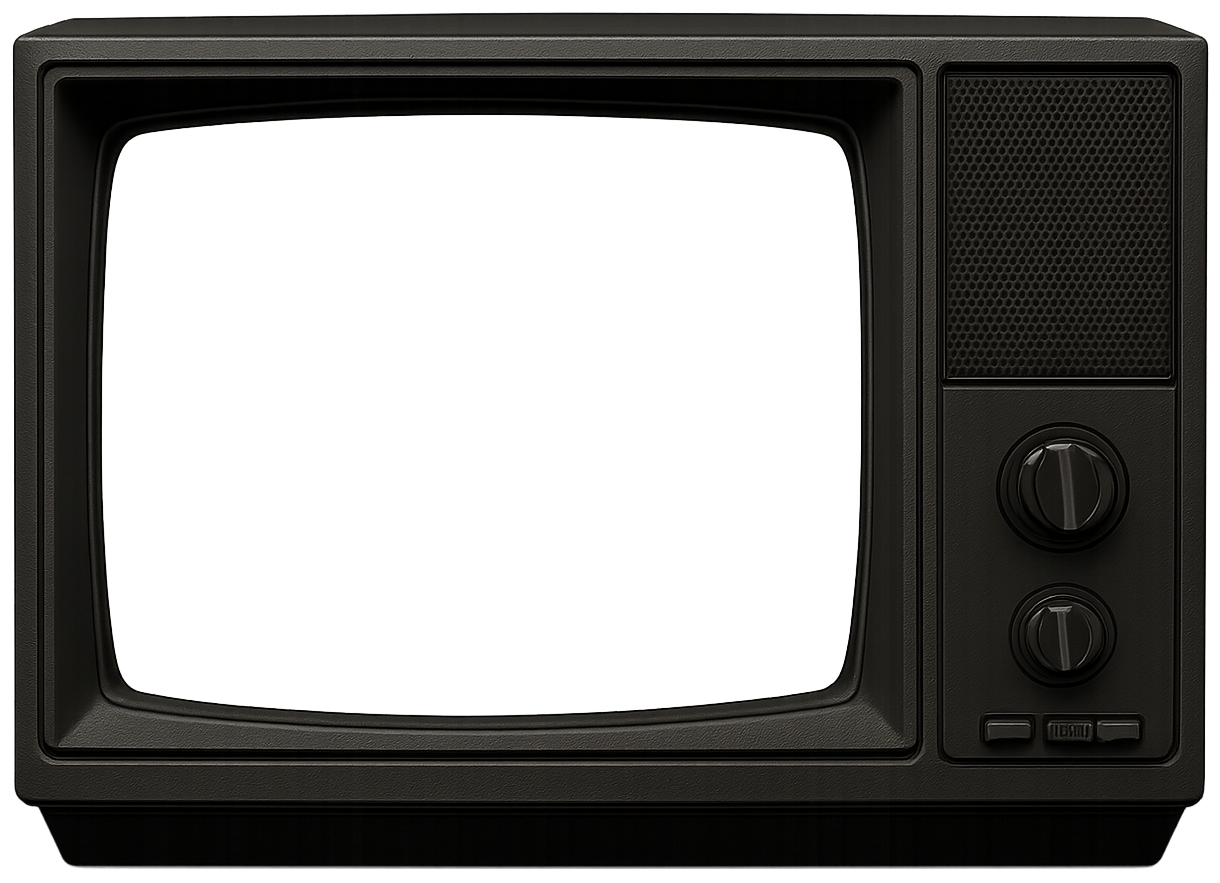
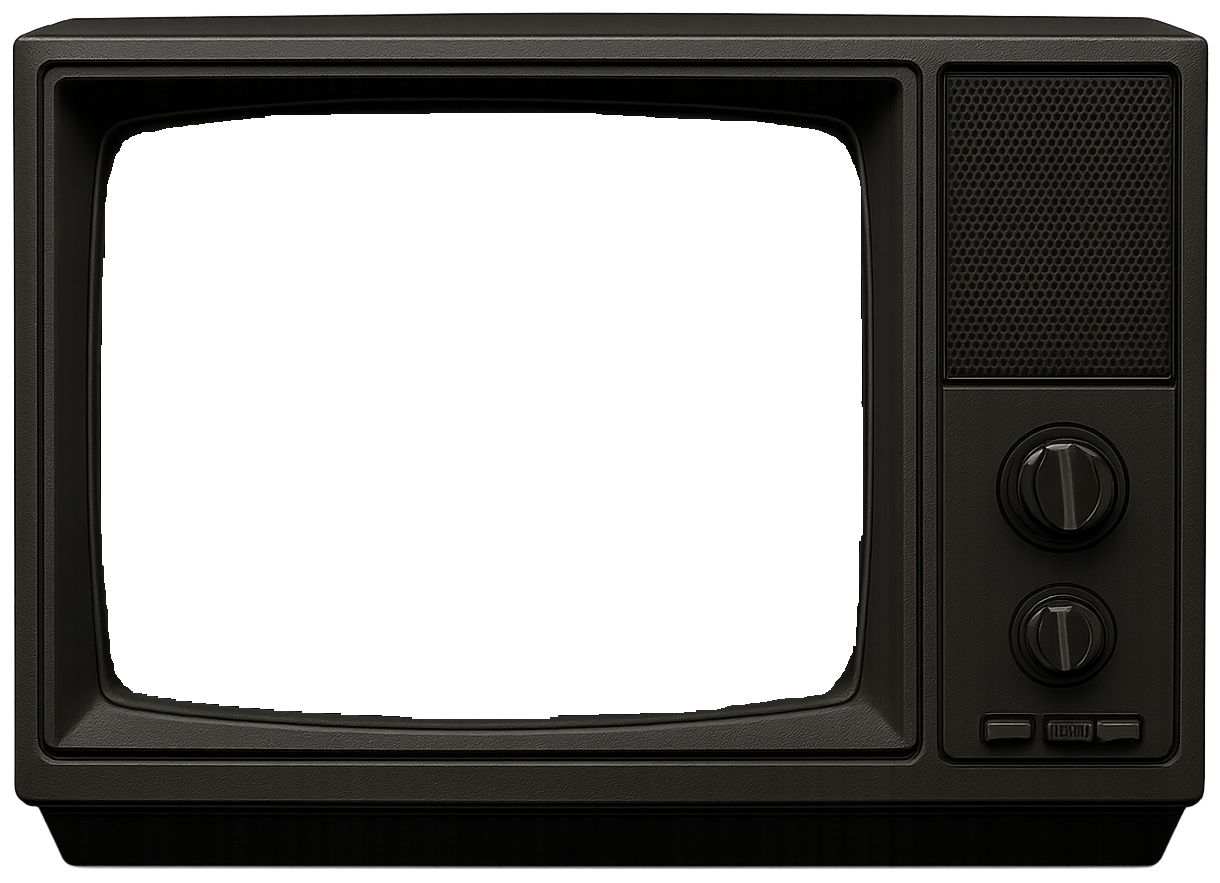
crt image improvement

diff --git a/Chomp/ChompGame/Game1.cs b/Chomp/ChompGame/Game1.cs
@@ -203,10 +203,10 @@ namespace ChompGame
                 _spriteBatch.Begin(samplerState: SamplerState.PointClamp, effect: _crtEffect);
                
                 _spriteBatch.Draw(_renderTarget, new Rectangle(
-                                   x: (int)(_themeScreenRenderSize.X + (_themeScreenRenderSize.Width * 0.090)),
-                                   y: (int)(_themeScreenRenderSize.Y + (_themeScreenRenderSize.Height * 0.15)),
-                                   width: (int)(_themeScreenRenderSize.Width * 0.60),
-                                   height: (int)(_themeScreenRenderSize.Height * 0.65)), Color.White);
+                                   x: (int)(_themeScreenRenderSize.X + (_themeScreenRenderSize.Width * 0.082)),
+                                   y: (int)(_themeScreenRenderSize.Y + (_themeScreenRenderSize.Height * 0.125)),
+                                   width: (int)(_themeScreenRenderSize.Width * 0.63),
+                                   height: (int)(_themeScreenRenderSize.Height * 0.69)), Color.White);
                 _spriteBatch.End();
                 
                 _spriteBatch.Begin();
@@ -216,7 +216,7 @@ namespace ChompGame
                                     width: _themeScreenRenderSize.Width,
                                     height: _themeScreenRenderSize.Height), Color.White);
                 _spriteBatch.End();                
-        }
+            }
             else
             {
                 var aspectRatio = (double)_renderTarget.Height / _renderTarget.Width;
